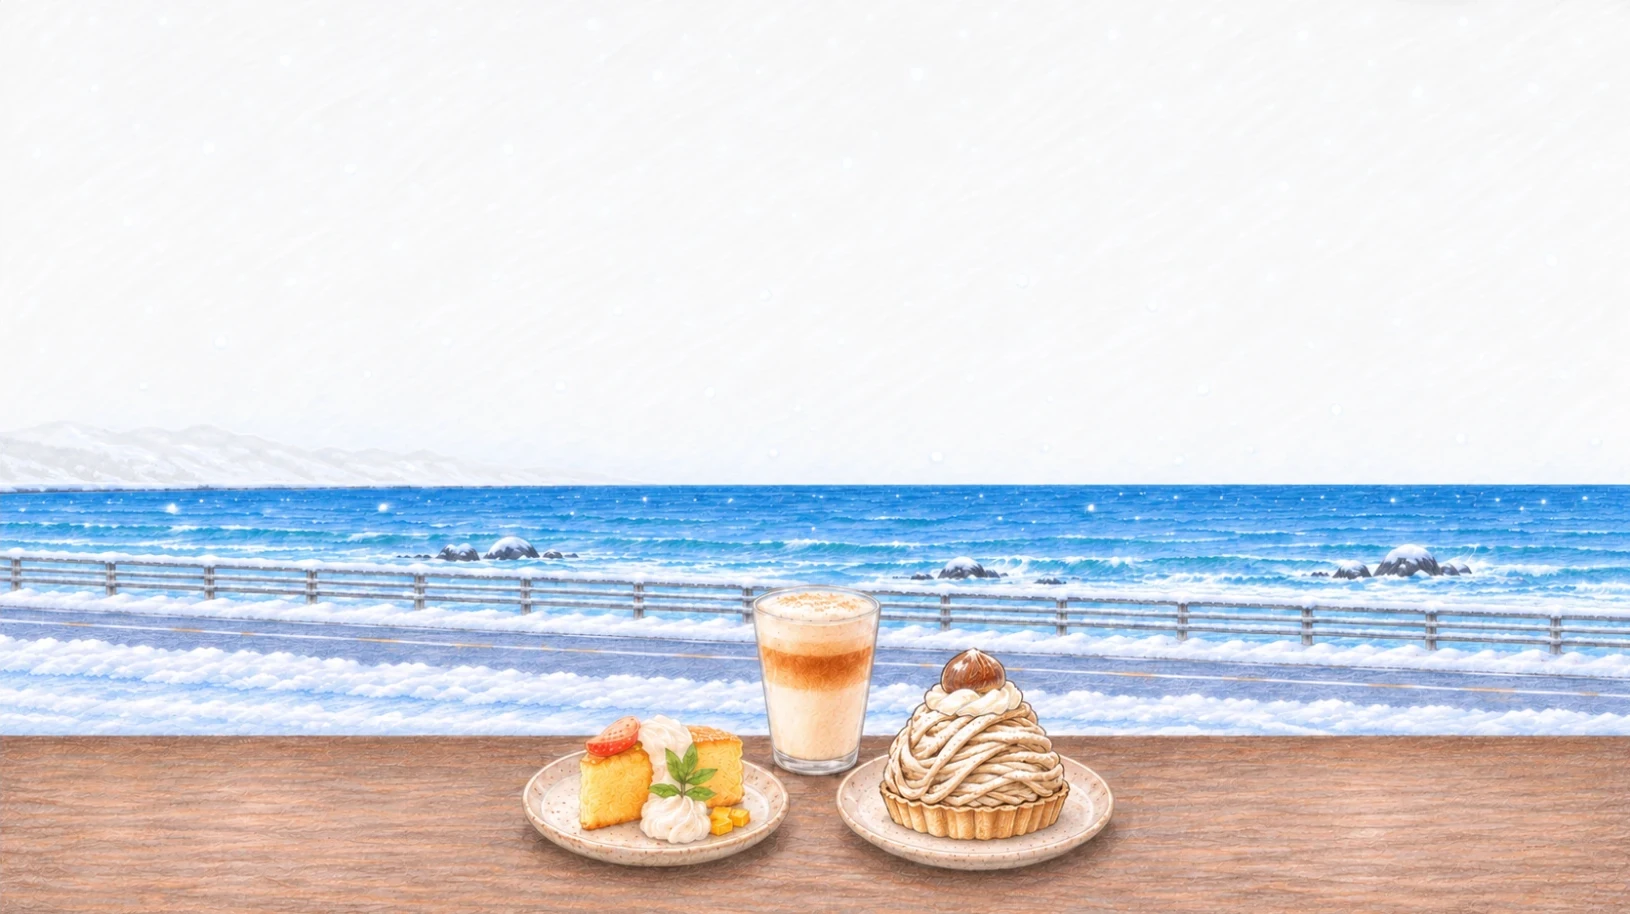
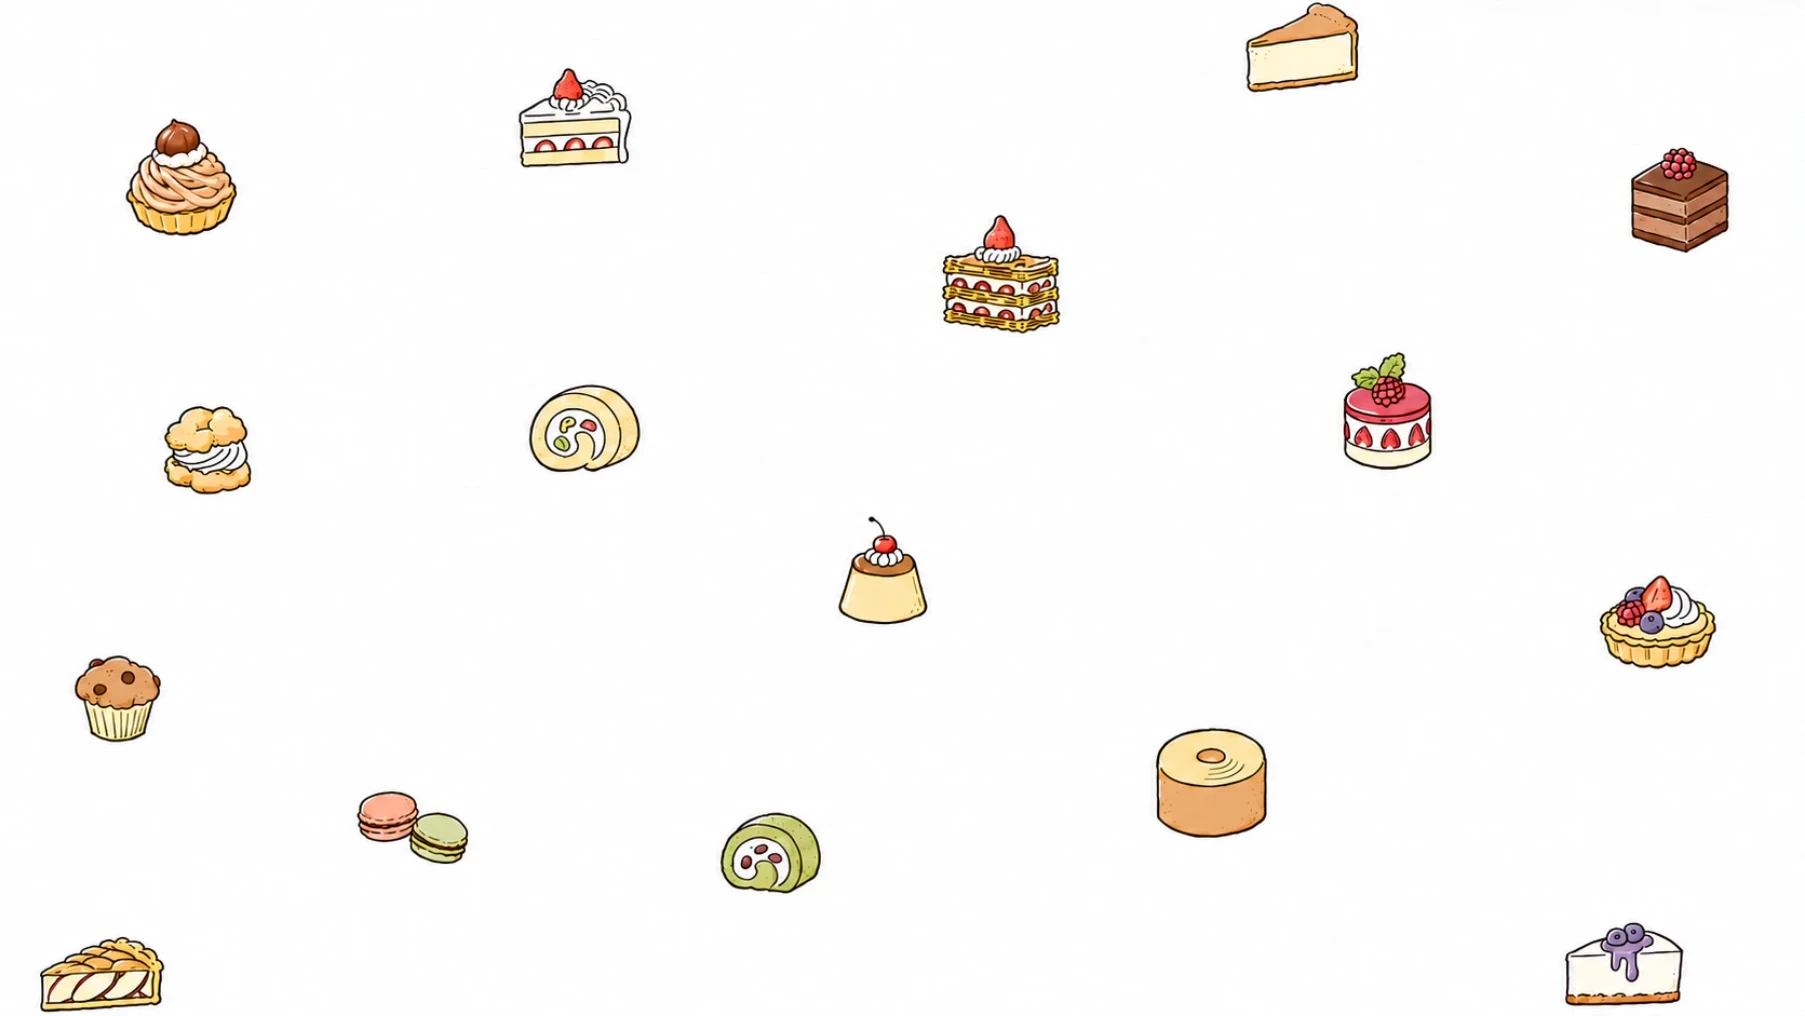
New 想吃清單 cake backgrounds with snow over the whole picture

diff --git a/src/component/WishlistScene.jsx b/src/component/WishlistScene.jsx
@@ -1,35 +1,13 @@
 import wide from "../assets/wishlist-bg-wide.webp";
 import tall from "../assets/wishlist-bg-tall.webp";
 
-// The picture behind 想吃清單 (coffee and cakes on a table by the snowy sea),
-// filling the screen under the header, with snow falling over the sky and the
-// sea (see _wishlist.scss), and the sea itself rippling. A landscape screen gets the wide picture, a
-// portrait one (a phone) the tall one.
-//
-// Each picture's snow area is a polygon in its own pixels: everything above
-// the table, stepping around the latte glass and the Mont Blanc that stand
-// up into the view.
-// The sea is the band of open water between the horizon and the railing,
-// [top, bottom] in the picture's pixels, which ripples (see Sea below).
+// The picture behind 想吃清單 (little cakes scattered on white), filling the
+// screen under the header, with snow falling over all of it (see
+// _wishlist.scss). A landscape screen gets the wide picture, a portrait one (a
+// phone) the tall one.
 const SCENES = [
-  {
-    name: "wide",
-    src: wide,
-    w: 1630,
-    h: 914,
-    snow: [[0, 0], [1630, 0], [1630, 735], [1056, 735], [1056, 644], [882, 644], [882, 582], [750, 582], [750, 735], [0, 735]],
-    count: 140,
-    sea: [486, 572],
-  },
-  {
-    name: "tall",
-    src: tall,
-    w: 514,
-    h: 918,
-    snow: [[0, 0], [514, 0], [514, 784], [434, 784], [434, 730], [322, 730], [322, 784], [300, 784], [300, 690], [214, 690], [214, 784], [0, 784]],
-    count: 90,
-    sea: [646, 684],
-  },
+  { name: "wide", src: wide, w: 1805, h: 1016, count: 140 },
+  { name: "tall", src: tall, w: 572, h: 1016, count: 90 },
 ];
 
 const pct = (value, total) => `${(value / total) * 100}%`;
@@ -78,35 +56,6 @@ function Snow({ points, w, h, count, seed }) {
   );
 }
 
-// The sea band redrawn through a ripple pattern that sways slowly sideways and
-// bobs up and down, like a gentle swell, instead of changing shape. The
-// pattern is drawn wider and taller than the band so its edges never show.
-const EASE = ".45 0 .55 1;.45 0 .55 1";
-function Sea({ src, w, h, sea: [top, bottom], id }) {
-  const pad = 120;
-  const region = { x: -pad, y: top - pad / 2, width: w + pad * 2, height: bottom - top + pad };
-  return (
-    <svg className="wishlist-scene-sea" viewBox={`0 0 ${w} ${h}`} preserveAspectRatio="none">
-      <defs>
-        <filter id={`${id}-ripple`} {...region} filterUnits="userSpaceOnUse">
-          <feTurbulence {...region} type="fractalNoise" baseFrequency="0.0035 0.06" numOctaves="2" seed="3" result="noise" />
-          <feOffset in="noise" result="swell">
-            <animate attributeName="dx" dur="18s" repeatCount="indefinite" values="0;-90;0" calcMode="spline" keyTimes="0;.5;1" keySplines={EASE} />
-            <animate attributeName="dy" dur="6s" repeatCount="indefinite" values="0;12;0" calcMode="spline" keyTimes="0;.5;1" keySplines={EASE} />
-          </feOffset>
-          <feDisplacementMap in="SourceGraphic" in2="swell" scale="5" xChannelSelector="R" yChannelSelector="G" />
-        </filter>
-        <clipPath id={`${id}-band`}>
-          <rect x="0" y={top} width={w} height={bottom - top} />
-        </clipPath>
-      </defs>
-      <g clipPath={`url(#${id}-band)`}>
-        <image href={src} width={w} height={h} filter={`url(#${id}-ripple)`} />
-      </g>
-    </svg>
-  );
-}
-
 function WishlistScene() {
   return (
     <div className="wishlist-scene" aria-hidden="true">
@@ -117,8 +66,7 @@ function WishlistScene() {
           style={{ "--ratio": scene.w / scene.h }}
         >
           <img className="wishlist-scene-bg" src={scene.src} alt="" />
-          <Sea src={scene.src} w={scene.w} h={scene.h} sea={scene.sea} id={`wishlist-sea-${scene.name}`} />
-          <Snow points={scene.snow} w={scene.w} h={scene.h} count={scene.count} seed={index * 7} />
+          <Snow points={[[0, 0], [scene.w, 0], [scene.w, scene.h], [0, scene.h]]} w={scene.w} h={scene.h} count={scene.count} seed={index * 7} />
         </div>
       ))}
     </div>

diff --git a/src/assets/pages/_wishlist.scss b/src/assets/pages/_wishlist.scss
@@ -1,6 +1,6 @@
 .wishlist-page { width: min(720px, calc(100% - 32px)); margin: 0 auto; padding: 48px 0 80px; color: #284d63; position: relative; z-index: 0; }
 // The picture (WishlistScene.jsx), faint and spanning the screen under the
-// header behind the list, with snow falling over the sky and sea.
+// header behind the list, with snow falling over it.
 .wishlist-scene {
   position: fixed;
   inset: var(--topbar-height, 72px) 0 0;
@@ -30,10 +30,8 @@
   .wishlist-scene-art.is-tall { display: block; }
 }
 .wishlist-scene-bg { display: block; width: 100%; height: 100%; }
-// The rippling sea, laid exactly over the picture (WishlistScene.jsx).
-.wishlist-scene-sea { position: absolute; inset: 0; width: 100%; height: 100%; }
 
-// Snow falling over the sky and sea.
+// Snow falling over the picture.
 .wishlist-scene-window { position: absolute; overflow: hidden; }
 .wishlist-scene-window i {
   position: absolute;
@@ -54,7 +52,7 @@
 
 @media (prefers-reduced-motion: reduce) {
   .wishlist-scene * { animation: none !important; }
-  .wishlist-scene-window, .wishlist-scene-sea { display: none; }
+  .wishlist-scene-window { display: none; }
 }
 html:has(.wishlist-page), html:has(.wishlist-page) body { background: #fff; }
 .wishlist-heading h1 { margin: 0; font-size: 30px; font-weight: 900; color: #123653; }
